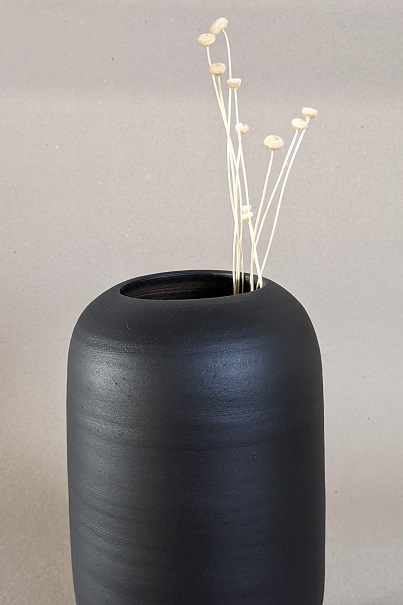
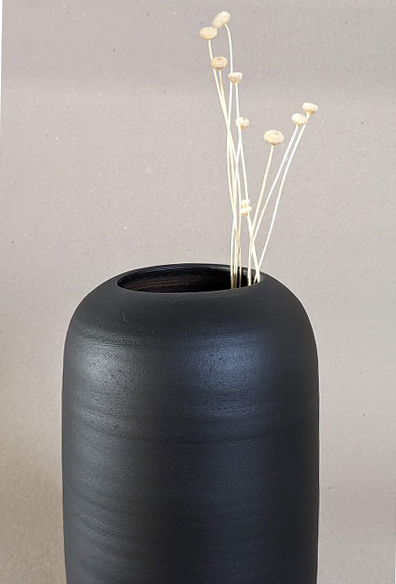
1

diff --git a/loja/insua.html b/loja/insua.html
@@ -100,7 +100,7 @@
                             <img src="../images/products/insua%20(3).jpg" class="img-fluid rounded">
                     </div>
                     <div class="grid-item">
-                            <img src="../images/products/insua%20(2).jpg" class="img-fluid rounded">
+                            <img src="../images/products/insua1.jpg" class="img-fluid rounded">
                     </div>
                 </div>
                 <div id='product-component-1631318353059'></div>
